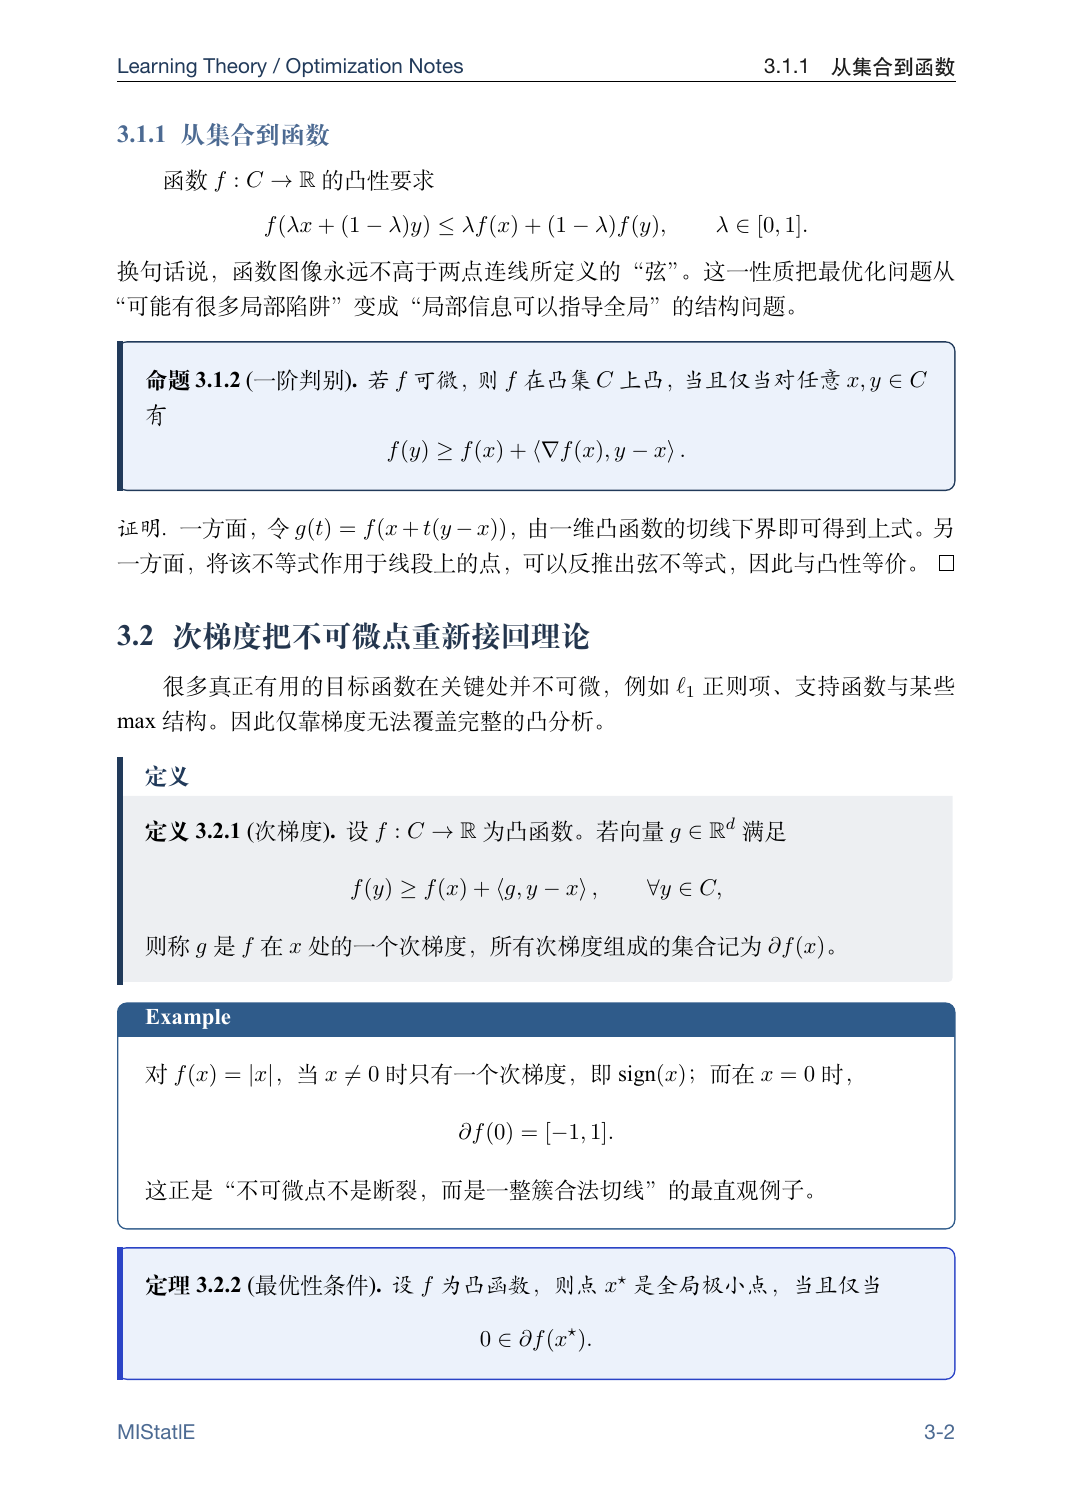
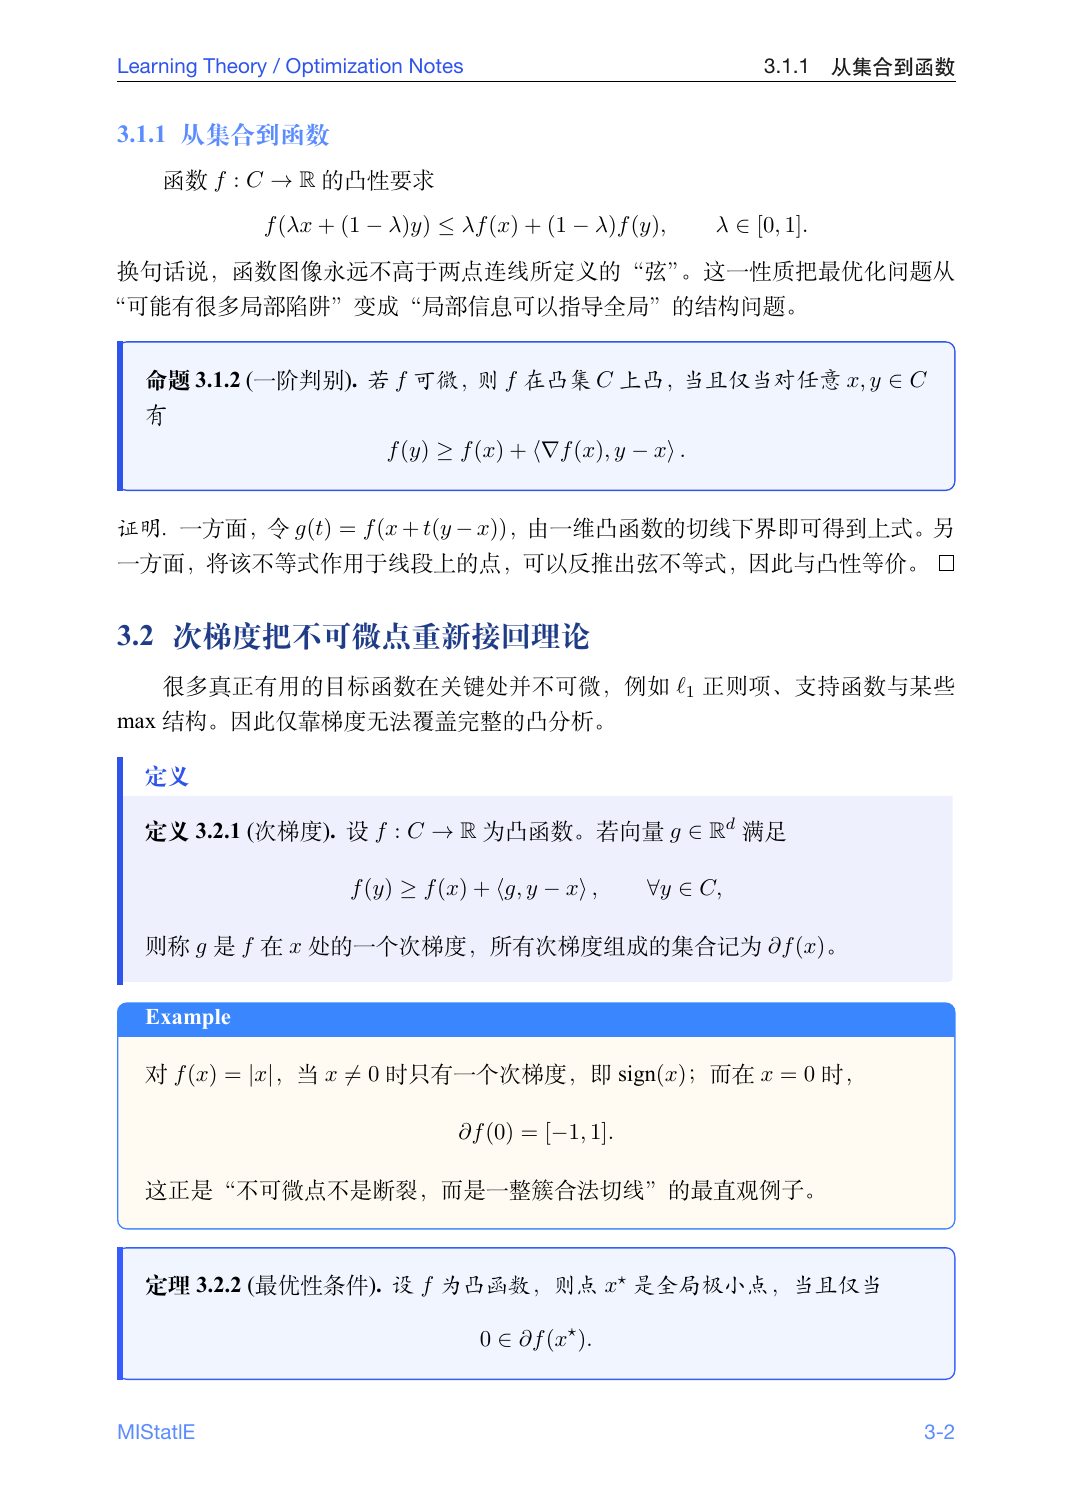
Brighten CN and EN template colors

diff --git a/public/data/templates/cn_lecture_source/CN.tex b/public/data/templates/cn_lecture_source/CN.tex
@@ -42,23 +42,23 @@
 \setlength{\parindent}{1.6em}
 \setlength{\parskip}{0.15em}
 
-\definecolor{brand}{HTML}{4C6A92}
-\definecolor{brandD}{HTML}{213A5A}
+\definecolor{brand}{HTML}{5B8CFF}
+\definecolor{brandD}{HTML}{2F54EB}
 \definecolor{ink}{HTML}{1A1A1A}
-\definecolor{keybg}{HTML}{EEF3F8}
-\definecolor{keydark}{HTML}{24364E}
-\definecolor{accent}{HTML}{C89A4B}
-\definecolor{accentD}{HTML}{9B6A2F}
-\definecolor{soft}{HTML}{F7F5F0}
-\definecolor{xhsRed}{HTML}{B95E4A}
+\definecolor{keybg}{HTML}{EFF4FF}
+\definecolor{keydark}{HTML}{1F3C88}
+\definecolor{accent}{HTML}{FFB84D}
+\definecolor{accentD}{HTML}{FF8F1F}
+\definecolor{soft}{HTML}{FFFBF2}
+\definecolor{xhsRed}{HTML}{FF6B6B}
 \definecolor{xhsDark}{HTML}{1F1F1F}
-\definecolor{xhsCream}{HTML}{FBF8F1}
-\definecolor{xhsBlue}{HTML}{2F5B8A}
-\definecolor{xhsYellow}{HTML}{D8A64B}
-\definecolor{secblue}{HTML}{2B44C6}
-\definecolor{thmBg}{RGB}{236,242,251}
-\definecolor{lemBg}{RGB}{249,239,237}
-\definecolor{defBg}{RGB}{242,245,249}
+\definecolor{xhsCream}{HTML}{FFF8EE}
+\definecolor{xhsBlue}{HTML}{3A86FF}
+\definecolor{xhsYellow}{HTML}{FFC857}
+\definecolor{secblue}{HTML}{365CFF}
+\definecolor{thmBg}{RGB}{240,245,255}
+\definecolor{lemBg}{RGB}{255,242,242}
+\definecolor{defBg}{RGB}{240,247,255}
 
 \hypersetup{
   colorlinks=true,
@@ -130,7 +130,7 @@
   \markright{#2}%
   \begin{tcolorbox}[
     cn-panel,
-    colback=white,
+    colback=keybg,
     colframe=brandD,
     borderline west={4pt}{0pt}{accent}
   ]
@@ -147,12 +147,12 @@
 
 \newtcolorbox{SummaryBox}{
   cn-panel,
-  colback=soft,
+  colback=xhsCream,
   colframe=accent,
   title=\textbf{本讲摘要},
   fonttitle=\bfseries,
   coltitle=white,
-  colbacktitle=accentD
+  colbacktitle=accent
 }
 
 \newtcolorbox{AnalysisBox}{
@@ -171,7 +171,7 @@
 
 \newtcolorbox{ExampleBox}{
   cn-panel,
-  colback=white,
+  colback=soft,
   colframe=xhsBlue,
   title=\textbf{Example},
   fonttitle=\bfseries,

diff --git a/public/data/templates/en_article_source/EN.tex b/public/data/templates/en_article_source/EN.tex
@@ -39,23 +39,23 @@
 \setlength{\parindent}{1.4em}
 \setlength{\parskip}{0.2em}
 
-\definecolor{brand}{HTML}{4C6A92}
-\definecolor{brandD}{HTML}{213A5A}
+\definecolor{brand}{HTML}{5B8CFF}
+\definecolor{brandD}{HTML}{2F54EB}
 \definecolor{ink}{HTML}{1A1A1A}
-\definecolor{keybg}{HTML}{EEF3F8}
-\definecolor{keydark}{HTML}{24364E}
-\definecolor{accent}{HTML}{C89A4B}
-\definecolor{accentD}{HTML}{9B6A2F}
-\definecolor{soft}{HTML}{F7F5F0}
-\definecolor{xhsRed}{HTML}{B95E4A}
+\definecolor{keybg}{HTML}{EFF4FF}
+\definecolor{keydark}{HTML}{1F3C88}
+\definecolor{accent}{HTML}{FFB84D}
+\definecolor{accentD}{HTML}{FF8F1F}
+\definecolor{soft}{HTML}{FFFBF2}
+\definecolor{xhsRed}{HTML}{FF6B6B}
 \definecolor{xhsDark}{HTML}{1F1F1F}
-\definecolor{xhsCream}{HTML}{FBF8F1}
-\definecolor{xhsBlue}{HTML}{2F5B8A}
-\definecolor{xhsYellow}{HTML}{D8A64B}
-\definecolor{secblue}{HTML}{2B44C6}
-\definecolor{thmBg}{RGB}{236,242,251}
-\definecolor{lemBg}{RGB}{249,239,237}
-\definecolor{defBg}{RGB}{242,245,249}
+\definecolor{xhsCream}{HTML}{FFF8EE}
+\definecolor{xhsBlue}{HTML}{3A86FF}
+\definecolor{xhsYellow}{HTML}{FFC857}
+\definecolor{secblue}{HTML}{365CFF}
+\definecolor{thmBg}{RGB}{240,245,255}
+\definecolor{lemBg}{RGB}{255,242,242}
+\definecolor{defBg}{RGB}{240,247,255}
 
 \hypersetup{
   colorlinks=true,
@@ -124,7 +124,7 @@
 \newcommand{\MakeArticleHeader}[5]{%
   \begin{tcolorbox}[
     en-card,
-    colback=white,
+    colback=keybg,
     colframe=brandD!25!white,
     borderline west={4pt}{0pt}{accent}
   ]
@@ -158,12 +158,12 @@
 
 \newtcolorbox{ExampleBox}{
   en-card,
-  colback=xhsCream,
+  colback=soft,
   colframe=accent,
   title=\textbf{Example},
   fonttitle=\bfseries,
   coltitle=white,
-  colbacktitle=accentD
+  colbacktitle=accent
 }
 
 \theoremstyle{plain}

diff --git a/public/data/templates/cn_lecture_note.md b/public/data/templates/cn_lecture_note.md
@@ -124,23 +124,23 @@ tags: [LaTeX, Lecture Note, CTeX, XeLaTeX]
 \setlength{\parindent}{1.6em}
 \setlength{\parskip}{0.15em}
 
-\definecolor{brand}{HTML}{4C6A92}
-\definecolor{brandD}{HTML}{213A5A}
+\definecolor{brand}{HTML}{5B8CFF}
+\definecolor{brandD}{HTML}{2F54EB}
 \definecolor{ink}{HTML}{1A1A1A}
-\definecolor{keybg}{HTML}{EEF3F8}
-\definecolor{keydark}{HTML}{24364E}
-\definecolor{accent}{HTML}{C89A4B}
-\definecolor{accentD}{HTML}{9B6A2F}
-\definecolor{soft}{HTML}{F7F5F0}
-\definecolor{xhsRed}{HTML}{B95E4A}
+\definecolor{keybg}{HTML}{EFF4FF}
+\definecolor{keydark}{HTML}{1F3C88}
+\definecolor{accent}{HTML}{FFB84D}
+\definecolor{accentD}{HTML}{FF8F1F}
+\definecolor{soft}{HTML}{FFFBF2}
+\definecolor{xhsRed}{HTML}{FF6B6B}
 \definecolor{xhsDark}{HTML}{1F1F1F}
-\definecolor{xhsCream}{HTML}{FBF8F1}
-\definecolor{xhsBlue}{HTML}{2F5B8A}
-\definecolor{xhsYellow}{HTML}{D8A64B}
-\definecolor{secblue}{HTML}{2B44C6}
-\definecolor{thmBg}{RGB}{236,242,251}
-\definecolor{lemBg}{RGB}{249,239,237}
-\definecolor{defBg}{RGB}{242,245,249}
+\definecolor{xhsCream}{HTML}{FFF8EE}
+\definecolor{xhsBlue}{HTML}{3A86FF}
+\definecolor{xhsYellow}{HTML}{FFC857}
+\definecolor{secblue}{HTML}{365CFF}
+\definecolor{thmBg}{RGB}{240,245,255}
+\definecolor{lemBg}{RGB}{255,242,242}
+\definecolor{defBg}{RGB}{240,247,255}
 
 \hypersetup{
   colorlinks=true,
@@ -212,7 +212,7 @@ tags: [LaTeX, Lecture Note, CTeX, XeLaTeX]
   \markright{#2}%
   \begin{tcolorbox}[
     cn-panel,
-    colback=white,
+    colback=keybg,
     colframe=brandD,
     borderline west={4pt}{0pt}{accent}
   ]
@@ -229,12 +229,12 @@ tags: [LaTeX, Lecture Note, CTeX, XeLaTeX]
 
 \newtcolorbox{SummaryBox}{
   cn-panel,
-  colback=soft,
+  colback=xhsCream,
   colframe=accent,
   title=\textbf{本讲摘要},
   fonttitle=\bfseries,
   coltitle=white,
-  colbacktitle=accentD
+  colbacktitle=accent
 }
 
 \newtcolorbox{AnalysisBox}{
@@ -253,7 +253,7 @@ tags: [LaTeX, Lecture Note, CTeX, XeLaTeX]
 
 \newtcolorbox{ExampleBox}{
   cn-panel,
-  colback=white,
+  colback=soft,
   colframe=xhsBlue,
   title=\textbf{Example},
   fonttitle=\bfseries,

diff --git a/public/data/templates/en_article_note.md b/public/data/templates/en_article_note.md
@@ -121,23 +121,23 @@ tags: [LaTeX, Article, Expository, XeLaTeX]
 \setlength{\parindent}{1.4em}
 \setlength{\parskip}{0.2em}
 
-\definecolor{brand}{HTML}{4C6A92}
-\definecolor{brandD}{HTML}{213A5A}
+\definecolor{brand}{HTML}{5B8CFF}
+\definecolor{brandD}{HTML}{2F54EB}
 \definecolor{ink}{HTML}{1A1A1A}
-\definecolor{keybg}{HTML}{EEF3F8}
-\definecolor{keydark}{HTML}{24364E}
-\definecolor{accent}{HTML}{C89A4B}
-\definecolor{accentD}{HTML}{9B6A2F}
-\definecolor{soft}{HTML}{F7F5F0}
-\definecolor{xhsRed}{HTML}{B95E4A}
+\definecolor{keybg}{HTML}{EFF4FF}
+\definecolor{keydark}{HTML}{1F3C88}
+\definecolor{accent}{HTML}{FFB84D}
+\definecolor{accentD}{HTML}{FF8F1F}
+\definecolor{soft}{HTML}{FFFBF2}
+\definecolor{xhsRed}{HTML}{FF6B6B}
 \definecolor{xhsDark}{HTML}{1F1F1F}
-\definecolor{xhsCream}{HTML}{FBF8F1}
-\definecolor{xhsBlue}{HTML}{2F5B8A}
-\definecolor{xhsYellow}{HTML}{D8A64B}
-\definecolor{secblue}{HTML}{2B44C6}
-\definecolor{thmBg}{RGB}{236,242,251}
-\definecolor{lemBg}{RGB}{249,239,237}
-\definecolor{defBg}{RGB}{242,245,249}
+\definecolor{xhsCream}{HTML}{FFF8EE}
+\definecolor{xhsBlue}{HTML}{3A86FF}
+\definecolor{xhsYellow}{HTML}{FFC857}
+\definecolor{secblue}{HTML}{365CFF}
+\definecolor{thmBg}{RGB}{240,245,255}
+\definecolor{lemBg}{RGB}{255,242,242}
+\definecolor{defBg}{RGB}{240,247,255}
 
 \hypersetup{
   colorlinks=true,
@@ -206,7 +206,7 @@ tags: [LaTeX, Article, Expository, XeLaTeX]
 \newcommand{\MakeArticleHeader}[5]{%
   \begin{tcolorbox}[
     en-card,
-    colback=white,
+    colback=keybg,
     colframe=brandD!25!white,
     borderline west={4pt}{0pt}{accent}
   ]
@@ -240,12 +240,12 @@ tags: [LaTeX, Article, Expository, XeLaTeX]
 
 \newtcolorbox{ExampleBox}{
   en-card,
-  colback=xhsCream,
+  colback=soft,
   colframe=accent,
   title=\textbf{Example},
   fonttitle=\bfseries,
   coltitle=white,
-  colbacktitle=accentD
+  colbacktitle=accent
 }
 
 \theoremstyle{plain}
